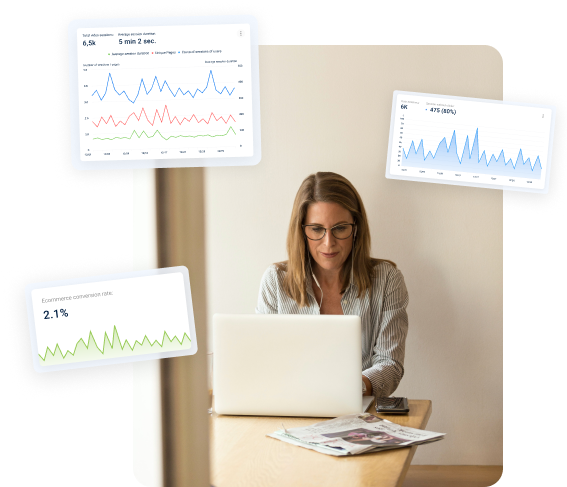
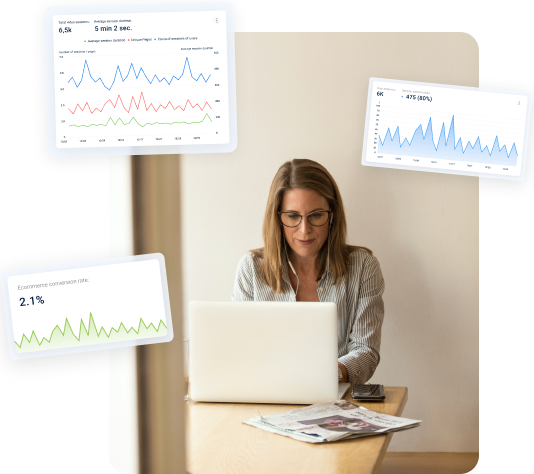
feat: privary hero view

Changed region(s): [[0.03, 0.0295, 0.9888, 1.0], [0.03, 0.5907, 0.2097, 0.6498]]

diff --git a/src/index.html b/src/index.html
@@ -38,26 +38,33 @@
   </nav>
 
   <div class="container">
-    <div class="custom-hero d-flex mt-5 py-3 ps-5 rounded-4">
-      <div class="d-flex flex-column align-items-start">
-        <h1 class="mt-5">How to do a Website Audit to Improve SEO & Conversions</h1>
-        <p>Usability auditing with the Plerdy tool is a comprehensive expert assessment of your website based on a
-          profound study of user behavior registered on it. Plerdy will provide you with crucial data based on which you
-          will be able to run an efficient usability audit of your website, identify and fix SEO issues, and
-          subsequently lead it to higher positions in search.</p>
-        <p>Thus, you'll compile a list of flaws in your website interface, navigation, and conversion path that can
-          eventually affect its micro and macro conversion rates.</p>
-        <button class="btn btn-primary">Run the Plerdy tool</button>
-        <h2 class="mt-auto">Trusted by some of the world's largest enterprises</h2>
-        <ul class="d-flex list-unstyled gap-3 mb-0">
-          <li><img src="./assets/img/icons/softserve.svg" alt="softserve logo"></li>
-          <li><img src="./assets/img/icons/subaru.svg" alt="subaru logo"></li>
-          <li><img src="./assets/img/icons/anextour.svg" alt="anextour logo"></li>
-          <li><img src="./assets/img/icons/prom.svg" alt="prom logo"></li>
-          <li><img src="./assets/img/icons/ukrposhta.svg" alt="ukrposhta logo"></li>
-        </ul>
+    <div class="custom-hero">
+      <div class="custom-hero__info">
+        <div class="custom-hero__text">
+          <h1 class="custom-hero__title">How to do a Website Audit to Improve SEO & Conversions</h1>
+          <p>Usability auditing with the Plerdy tool is a comprehensive expert assessment of your website based on a
+            profound study of user behavior registered on it. Plerdy will provide you with crucial data based on which
+            you
+            will be able to run an efficient usability audit of your website, identify and fix SEO issues, and
+            subsequently lead it to higher positions in search.</p>
+          <p>Thus, you'll compile a list of flaws in your website interface, navigation, and conversion path that can
+            eventually affect its micro and macro conversion rates.</p>
+          <button class="btn btn-primary">Run the Plerdy tool</button>
+        </div>
+        <div class="custom-hero__our-clients">
+          <h2 class="mt-auto">Trusted by some of the world's largest enterprises</h2>
+          <ul class="custom-hero__clients-list">
+            <li><img src="./assets/img/icons/softserve.svg" alt="softserve logo"></li>
+            <li><img src="./assets/img/icons/subaru.svg" alt="subaru logo"></li>
+            <li><img src="./assets/img/icons/anextour.svg" alt="anextour logo"></li>
+            <li><img src="./assets/img/icons/prom.svg" alt="prom logo"></li>
+            <li><img src="./assets/img/icons/ukrposhta.svg" alt="ukrposhta logo"></li>
+          </ul>
+        </div>
       </div>
-      <img src="./assets/img/user.png" alt="User">
+      <div class="custom-hero__img-container">
+        <img class="custom-hero__img" src="./assets/img/user.png" alt="User">
+      </div>
     </div>
   </div>
 

diff --git a/src/scss/_styles.scss b/src/scss/_styles.scss
@@ -1,3 +1,51 @@
 .custom-hero {
+  margin-top: 40px;
+  padding: 22px 15px 22px 51px;
+  display: flex;
   background-color: $bg-hero;
+  border-radius: 10px;
+  @include media-breakpoint-down(lg) {
+    padding: 22px 51px;
+    flex-direction: column;
+  }
+  @include media-breakpoint-down(md) {
+    padding: 20px 10px;
+  }
+
+  &__title {
+    margin-top: 69px;
+    @include media-breakpoint-down(lg) {
+      margin-top: 0;
+    }
+  }
+  
+  &__img-container {
+    display: flex;
+    align-items: center;
+    max-width: 488px;
+    min-width: 280px;
+    width: 100%;
+    @include media-breakpoint-down(lg) {
+      margin: 30px auto;
+      flex-direction: column;
+    }
+  }
+  
+  &__img {
+    width: 100%;
+    height: auto;
+  }
+
+  &__clients-list {
+    margin: 0;
+    padding: 0;
+    gap: 12px 24px;
+    display: flex;
+    flex-direction: row;
+    list-style: none;
+    flex-wrap: wrap;
+    @include media-breakpoint-down(xl) {
+      justify-content: center;
+    }
+  }
 }
